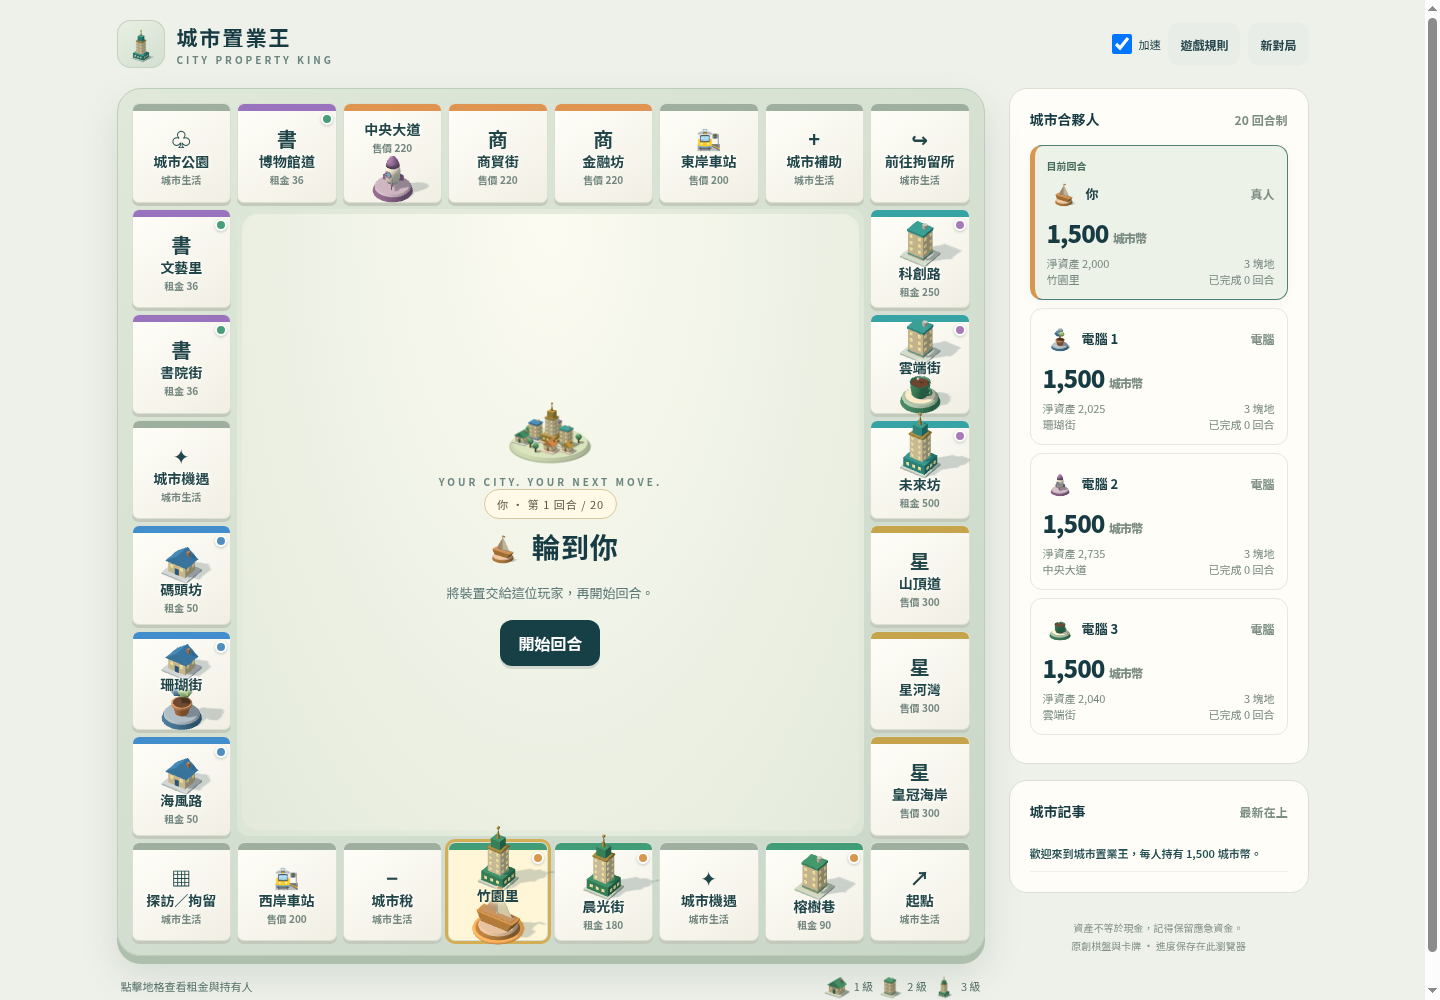
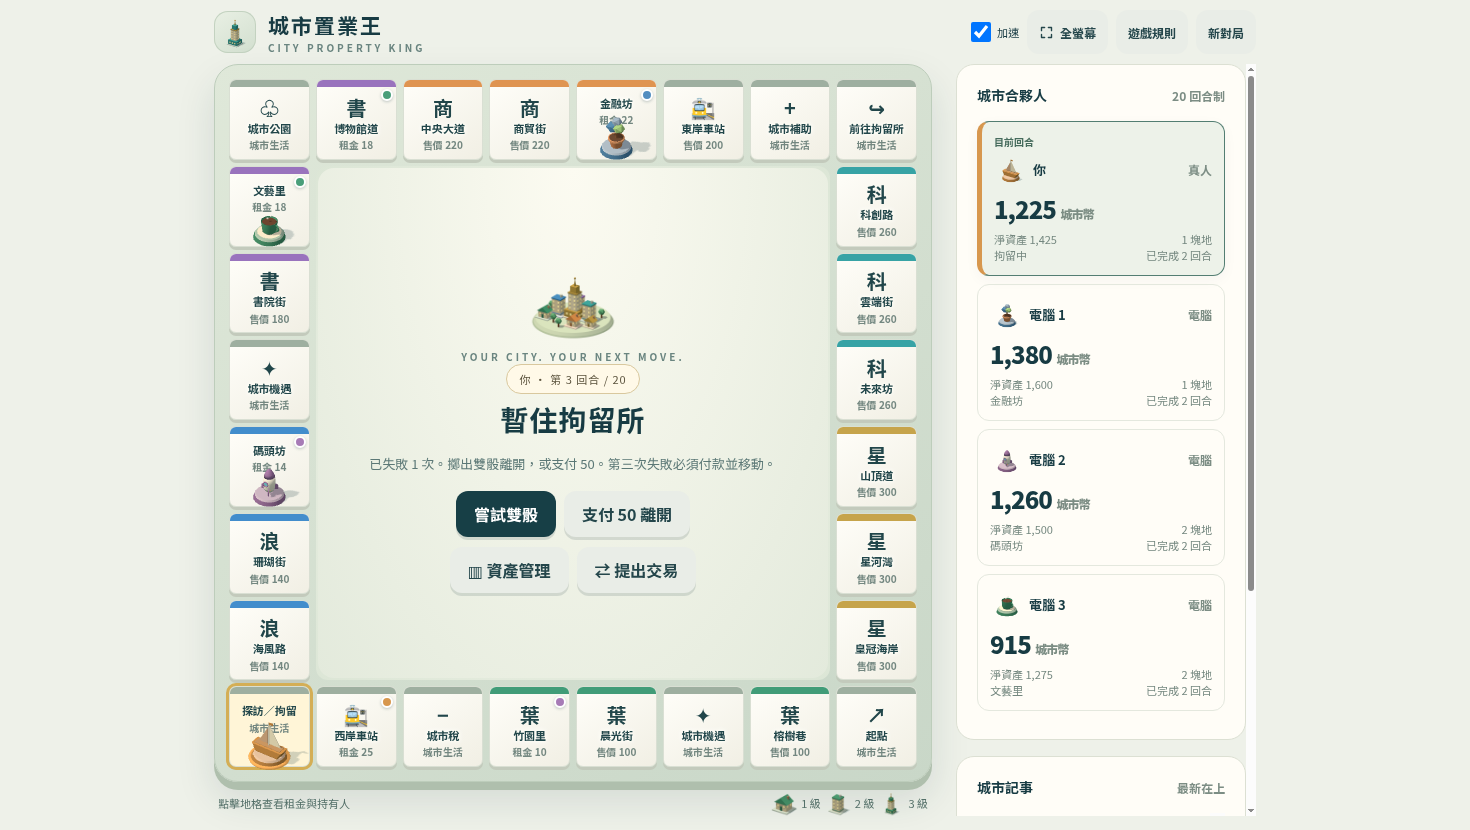
Fit board to screen height on laptop and iPad, add fullscreen button

diff --git a/app.js b/app.js
@@ -21,7 +21,14 @@ function pieceArt(id,color=colors[id],slot=false){if(three)return slot?'':`<span
  '<ellipse cx="31" cy="49" rx="22" ry="6" fill="#d8e1db"/><path d="M43 23h5c14 0 12 18-2 18h-4" fill="none" stroke="currentColor" stroke-width="5"/><path d="M15 22h31l-3 23q-12 9-25 0z" fill="currentColor"/><ellipse cx="30" cy="22" rx="15" ry="5" fill="#fff4dc"/><ellipse cx="30" cy="23" rx="11" ry="3" fill="#795b47"/><path d="M23 7q-5 5 0 10m10-12q-5 5 0 10" fill="none" stroke="#d6dacf" stroke-width="3" stroke-linecap="round"/>'
  ];return `<span class="piece-art" data-piece="${id}" style="--piece:${color}" aria-hidden="true"><svg viewBox="0 0 64 64"><ellipse cx="32" cy="58" rx="26" ry="5" fill="#123747" opacity=".15"/><ellipse cx="32" cy="54" rx="25" ry="6" fill="currentColor"/><ellipse cx="32" cy="52" rx="25" ry="6" fill="#fff" opacity=".4"/>${shapes[id%4]}</svg></span>`}
 function buildingArt(level,color='#499e7a',slot=false){if(three)return slot?`<span class="building-art level-${level}" data-level="${level}" data-color="${color}" aria-hidden="true"></span>`:`<span class="building-art is-3d" aria-hidden="true"><img src="${three.thumbs.building(level,color)}" alt=""></span>`;return `<span class="building-art level-${level}" aria-hidden="true"><svg viewBox="0 0 64 64"><ellipse cx="32" cy="56" rx="27" ry="5" fill="#183c45" opacity=".15"/>${level===1?'<path d="M13 31l20 7v18l-20-7z" fill="#f2e5c6"/><path d="M33 38l18-10v19L33 56z" fill="#b9b99b"/><path d="M7 32l19-20 13 5-6 25z" fill="currentColor"/><path d="M26 12l27 15-20 15 6-25z" fill="currentColor"/><path d="M33 42l20-15-14-10z" fill="#173e47" opacity=".25"/><path d="M20 39l7 2v13l-7-2z" fill="#57767a"/>':`<path d="M15 ${level===2?19:12}l21 7v34l-21-7z" fill="#e9e6ce"/><path d="M36 ${level===2?26:19}l15-9v34L36 60z" fill="currentColor"/><path d="M15 ${level===2?19:12}l15-9 21 7-15 9z" fill="currentColor"/><path d="M36 ${level===2?26:19}l15-9v34L36 60z" fill="#173e47" opacity=".2"/>${[0,1,2].map(i=>`<path d="M20 ${27+i*8}l10 3v4l-10-3z" fill="#6a9298"/><path d="M40 ${29+i*8}l6-4v4l-6 4z" fill="#fff3ba"/>`).join('')}${level===3?'<path d="M24 10l9 3V4l-9-2z" fill="#e2bb68"/><path d="M33 13l6-4V0l-6 4z" fill="#9b7f49"/>':''}`}</svg></span>`}
-function header(){return `<header><div class="brand">${brandIcon()}<div><h1>城市置業王</h1><div class="eyebrow">City Property King</div></div></div><nav class="tools" aria-label="遊戲選項">${s?`<label class="speed"><input id="fast" type="checkbox" ${fast?'checked':''}> 加速</label>`:''}${btn('遊戲規則','rules','secondary')}${s?btn('新對局','new','secondary'):''}</nav></header>`}
+const fsEl=()=>document.fullscreenElement||document.webkitFullscreenElement;
+const fsOK=!!(document.fullscreenEnabled||document.webkitFullscreenEnabled);
+const fsLabel=()=>`<svg viewBox="0 0 24 24" aria-hidden="true" fill="none" stroke="currentColor" stroke-width="2.2" stroke-linecap="round" stroke-linejoin="round">${fsEl()?'<path d="M9 4v5H4M15 4v5h5M9 20v-5H4M15 20v-5h5"/>':'<path d="M4 9V4h5M20 9V4h-5M4 15v5h5M20 15v5h-5"/>'}</svg><span class="fs-text">${fsEl()?'離開全螢幕':'全螢幕'}</span>`;
+function toggleFullscreen(){if(fsEl()){(document.exitFullscreen||document.webkitExitFullscreen).call(document)?.catch?.(()=>{});return}const r=document.documentElement;(r.requestFullscreen||r.webkitRequestFullscreen).call(r)?.catch?.(()=>{})}
+function syncFullscreen(){document.querySelectorAll('[data-action="fullscreen"]').forEach(b=>{b.innerHTML=fsLabel();b.setAttribute('aria-pressed',String(!!fsEl()));b.title=fsEl()?'離開全螢幕（F 或 Esc）':'全螢幕顯示（F）'})}
+for(const ev of ['fullscreenchange','webkitfullscreenchange'])document.addEventListener(ev,syncFullscreen);
+document.addEventListener('keydown',e=>{if(!fsOK||e.repeat||e.ctrlKey||e.metaKey||e.altKey||(e.key!=='f'&&e.key!=='F'))return;if(e.target.closest?.('input,select,textarea,dialog'))return;e.preventDefault();toggleFullscreen()});
+function header(){return `<header><div class="brand">${brandIcon()}<div><h1>城市置業王</h1><div class="eyebrow">City Property King</div></div></div><nav class="tools" aria-label="遊戲選項">${s?`<label class="speed"><input id="fast" type="checkbox" ${fast?'checked':''}> 加速</label>`:''}${fsOK?`<button class="secondary fs-btn" data-action="fullscreen" aria-pressed="${!!fsEl()}" title="${fsEl()?'離開全螢幕（F 或 Esc）':'全螢幕顯示（F）'}">${fsLabel()}</button>`:''}${btn('遊戲規則','rules','secondary')}${s?btn('新對局','new','secondary'):''}</nav></header>`}
 function setup(){view='setup';app.innerHTML=header()+`<main class="setup"><section class="hero"><span class="pill">原創城市・你的置業故事</span>${cityArt()}<div class="eyebrow">Build a city. Make your move.</div><h2>一擲骰子，<br>一座你的城市。</h2><p>從一條小巷開始，打造你的置業版圖。<br>買地、收租、談判，把每一次機會變成資產。</p><p class="helptext">2–4 人・真人與電腦混合・同機輪流遊玩<br>自動儲存在此瀏覽器，無需登入。</p></section><form class="setup-card" id="setup"><h2>開展你的城市旅程</h2><label for="count">玩家人數</label><select id="count"><option value="2">2 位玩家</option><option value="3">3 位玩家</option><option value="4">4 位玩家</option></select><div id="setupPlayers"></div><label for="mode">遊戲模式</label><select id="mode"><option value="quick">快速模式 · 每人 20 回合</option><option value="classic">經典模式 · 最後一人勝出</option></select><p class="helptext">起始現金 1,500 · 經過起點 +200<br>快速模式以淨資產排名；遊戲時長視操作與對局而定。</p><button class="start" type="submit">開始新對局 →</button>${saved?btn('繼續上次對局','continue','secondary'):''}${loadError?`<p class="notice">${esc(loadError)}</p>`:''}</form></main>`;setupPlayers(2);document.querySelector('#count').onchange=e=>setupPlayers(+e.target.value);document.querySelector('#setup').onsubmit=e=>{e.preventDefault();if(saved&&saved.phase!=='over'&&!confirm('開始新對局將取代尚未完成的存檔，確定開始？'))return;const ps=[...document.querySelectorAll('.setup-player')].map((el,id)=>({name:el.querySelector('input').value.trim()||`玩家 ${id+1}`,ai:el.querySelector('select').value==='ai',piece:id}));if(ps.every(p=>p.ai)){alert('請保留至少一名真人玩家。');return}s=createGame(ps,document.querySelector('#mode').value);save();render()}}
 function setupPlayers(n){document.querySelector('#setupPlayers').innerHTML=Array.from({length:n},(_,i)=>`<div class="setup-player"><span aria-label="棋子 ${i+1}">${pieceArt(i)}</span><input maxlength="20" aria-label="玩家 ${i+1} 姓名" value="${i===0?'你':`電腦 ${i}`}" required><select aria-label="玩家 ${i+1} 類型"><option value="human">真人</option><option value="ai" ${i?'selected':''}>電腦</option></select></div>`).join('')}
 function save(){try{localStorage.setItem(key,JSON.stringify(s));saved=s;storageOK=true}catch{storageOK=false}}
@@ -52,7 +59,7 @@ function tileDetail(i){const t=board[i],a=s.assets[i],g=groups[t.group];open(`<h
 function tradeSummary(t){return `${esc(player(s).name)}付出 ${money(t.giveCash)} ＋ ${t.give.map(i=>board[i].name).join('、')||'無土地'}<br>${esc(s.players[t.other].name)}付出 ${money(t.takeCash)} ＋ ${t.take.map(i=>board[i].name).join('、')||'無土地'}<br>交易後現金：${esc(player(s).name)} ${money(player(s).cash-t.giveCash+t.takeCash)} ／ ${esc(s.players[t.other].name)} ${money(s.players[t.other].cash-t.takeCash+t.giveCash)}${groups.map(g=>{const owners=g.tiles.map(i=>t.give.includes(i)?t.other:t.take.includes(i)?s.current:s.assets[i].owner);return owners.every(i=>i===s.current)?`<br>你將持有完整${g.name}`:owners.every(i=>i===t.other)?`<br>對方將持有完整${g.name}`:''}).join('')}`}
 function tradeForm(){const qs=s.players.filter(p=>p.id!==s.current&&!p.bankrupt);if(!qs.length)return;open(`<h2>提出交易</h2><form id="tradeForm"><label for="other">交易對象</label><select id="other">${qs.map(p=>`<option value="${p.id}">${esc(p.name)}</option>`).join('')}</select><div id="tradeSides"></div><p id="tradePreview" class="helptext"></p><button type="submit">送出提案</button></form>`);const sides=()=>{const other=+document.querySelector('#other').value;document.querySelector('#tradeSides').innerHTML=`<div class="trade-columns">${[s.current,other].map((id,k)=>`<section><h3>${esc(s.players[id].name)}付出</h3><label>現金<input type="number" name="${k?'takeCash':'giveCash'}" min="0" max="${s.players[id].cash}" value="0" step="1"></label>${owned(s,id).filter(t=>tradable(s,id,t.id)).map(t=>`<label><input type="checkbox" name="${k?'take':'give'}" value="${t.id}"> ${t.name} (${t.price})</label>`).join('')||'<p class="helptext">沒有可交易的土地</p>'}</section>`).join('')}</div>`;preview()};const data=()=>{const f=new FormData(document.querySelector('#tradeForm'));return {other:+document.querySelector('#other').value,giveCash:+f.get('giveCash'),takeCash:+f.get('takeCash'),give:f.getAll('give').map(Number),take:f.getAll('take').map(Number)}};const preview=()=>document.querySelector('#tradePreview').innerHTML=tradeSummary(data());sides();document.querySelector('#other').onchange=sides;document.querySelector('#tradeForm').oninput=preview;document.querySelector('#tradeForm').onsubmit=e=>{e.preventDefault();const tr=data();modal.close();act({type:'trade',trade:tr})}}
 function rules(){open(`<h2>城市置業王・遊戲規則</h2><div class="rules"><p>2–4 位玩家，真人與電腦可混合。同一部裝置輪流遊玩。每人由起點出發，持有 1,500 城市幣。</p><h3>擲骰與落格</h3><p>兩顆骰子決定步數。經過或停在起點領 200。無主土地可購買，放棄便由全體未破產玩家拍賣；每次至少加 10，退出後不可重返。停在他人未抵押土地自動付租。城市稅付 100、補助領 100，公園沒有金錢效果。</p><h3>地段與建造</h3><p>同色三塊集齊、全組未抵押時，基本租金加倍，並可升級至三級。建築租金不再加倍。建造與出售必須維持同組最高與最低級別相差不超過 1。建築出售回收成本 50%。資產操作在自己回合擲骰前或結算後進行。</p><h3>抵押與交易</h3><p>抵押取得原價 50%，抵押後不收租；贖回須付抵押金額 110%，向上取整。同組全部沒有建築才能抵押。只可交易未抵押資產；一般土地所在組別不能有建築。交易須對方接受才一次完成。</p><h3>雙骰與拘留</h3><p>雙骰可再擲，同回合連續第三次雙骰直接入拘留所。普通停在拘留格只是探訪。被拘留後可付 50 離開並正常擲骰，或試雙骰。成功依點數離開但沒有額外擲骰；第三次失敗須付 50 後依該次點數移動。</p><h3>機遇卡</h3><p>12 張卡依洗勻次序抽取，抽完再洗。卡牌移動結算目的格；前進經過起點可領獎金，後退及被送入拘留所不領。</p><h3>欠款與破產</h3><p>付不起時只能售建築及抵押籌款，籌足後一次付款。所有合法變賣方式仍不足才可破產。欠玩家時，剩餘現金、建築半價收入及土地交給債權人，保留抵押狀態；欠銀行時土地恢復無主未抵押，建築移除。只剩一名玩家立即完局。</p><h3>快速模式</h3><p>每人完成 20 回合後停止行動，仍可收租及拍賣；所有待結算完成後排名。拘留失敗也計一回合，雙骰額外擲骰不另計。淨資產＝現金＋未抵押土地原價＋抵押土地原價 50%＋建築成本 50%。同分先比現金，再比完整地段數，仍同分並列。破產者排最後。</p><h3>電腦與存檔</h3><p>電腦原則保留 200 現金，完成地段可保留 100；拍賣一般上限原價 110%，完成地段 130%。不讀取未公開骰子或卡牌。重要操作自動儲存於此瀏覽器；清除網站資料會刪除進度。加速選項可略過等待。</p></div>`)}
-app.addEventListener('click',e=>{const tile=e.target.closest('[data-tile]');if(tile){tileDetail(+tile.dataset.tile);return}const b=e.target.closest('[data-action]');if(!b||b.disabled||busy)return;const a=b.dataset.action;if(a==='rules'){rules();return}if(a==='continue'){s=structuredClone(saved);render();return}if(a==='new'){if(s?.phase!=='over'&&!confirm('離開目前對局？進度仍會保存，開始新局才會覆蓋。'))return;clearTimeout(timer);s=null;setup();return}if(a==='assets'){assetPanel();return}if(a==='trade-form'){tradeForm();return}if(currentActor().ai)return;if(a==='bid'){act({type:'bid',amount:+document.querySelector('#bid').value});return}if(a==='bankrupt'&&!confirm('確認破產並移交資產？'))return;act({type:a})});
+app.addEventListener('click',e=>{if(e.target.closest('[data-action="fullscreen"]')){toggleFullscreen();return}const tile=e.target.closest('[data-tile]');if(tile){tileDetail(+tile.dataset.tile);return}const b=e.target.closest('[data-action]');if(!b||b.disabled||busy)return;const a=b.dataset.action;if(a==='rules'){rules();return}if(a==='continue'){s=structuredClone(saved);render();return}if(a==='new'){if(s?.phase!=='over'&&!confirm('離開目前對局？進度仍會保存，開始新局才會覆蓋。'))return;clearTimeout(timer);s=null;setup();return}if(a==='assets'){assetPanel();return}if(a==='trade-form'){tradeForm();return}if(currentActor().ai)return;if(a==='bid'){act({type:'bid',amount:+document.querySelector('#bid').value});return}if(a==='bankrupt'&&!confirm('確認破產並移交資產？'))return;act({type:a})});
 body.addEventListener('click',e=>{const b=e.target.closest('[data-asset]');if(!b||b.disabled)return;const a={type:b.dataset.asset,tile:+b.dataset.id},t=board[a.tile],g=groups[t.group];const price=a.type==='build'?g.build:a.type==='sell'?g.build*.5:a.type==='mortgage'?t.price*.5:Math.ceil(t.price*.55);const delta=['sell','mortgage'].includes(a.type)?price:-price;if(!confirm(`${t.name}：${b.textContent}\n完成後現金 ${money(player(s).cash+delta)}${a.type==='build'||a.type==='sell'?`\n新級別 ${s.assets[t.id].level+(a.type==='build'?1:-1)}`:''}\n確認操作？`))return;act(a);assetPanel()});
 function upgradeArt(){document.querySelectorAll('.piece-art[data-piece]:not(.is-3d)').forEach(el=>{if(!el.closest('.board'))el.outerHTML=pieceArt(+el.dataset.piece)});document.querySelectorAll('.city-art:not(.is-3d)').forEach(el=>el.outerHTML=cityArt());document.querySelector('.brand-icon:not(.is-3d)')?.replaceWith(Object.assign(document.createElement('div'),{innerHTML:brandIcon()}).firstElementChild)}
 setup();

diff --git a/style.css b/style.css
@@ -48,3 +48,44 @@
 .has-3d .tile.current .name{text-shadow:0 0 2px #fff5d7,0 0 4px #fff5d7,0 0 6px #fff5d7}
 .has-3d .tile.built.occupied .price{visibility:hidden}
 @media(max-width:1050px){.center .city-art.is-3d{display:none}}
+
+/* Fullscreen button and board fitted to screen height (MacBook / iPad) */
+.fs-btn{display:inline-flex;align-items:center;gap:6px}
+.fs-btn svg{width:15px;height:15px;flex-shrink:0}
+@media(min-width:761px){
+body:has(main.layout){--hdr:64px;--legend:34px;--side:300px;--board:calc(100vh - var(--hdr) - var(--legend) - 14px)}
+@supports(height:100dvh){body:has(main.layout){--board:calc(100dvh - var(--hdr) - var(--legend) - 14px)}}
+body:has(main.layout) header{height:var(--hdr);padding-top:8px;padding-bottom:8px;max-width:calc(max(460px,var(--board)) + var(--side) + 72px)}
+body:has(main.layout) .brand-icon{width:42px;height:42px}
+body:has(main.layout) .brand-icon.is-3d img{width:36px;height:36px}
+.layout{max-width:none;grid-template-columns:minmax(0,max(460px,var(--board))) var(--side);justify-content:center;padding-bottom:12px}
+.board-legend{height:var(--legend);padding:8px 4px 0}
+.sidebar{position:sticky;top:8px;align-self:start;max-height:calc(100vh - var(--hdr) - 14px);max-height:calc(100dvh - var(--hdr) - 14px);overflow-y:auto;overscroll-behavior:contain;scrollbar-width:thin}
+.board{container-type:inline-size}
+.tile .name{font-size:clamp(8px,1.6cqi,14px)}
+}
+@media(min-width:761px) and (max-width:1050px){body:has(main.layout){--side:250px}}
+@media(min-width:761px) and (max-width:1100px) and (orientation:portrait){
+body:has(main.layout){--side:0px}
+body:has(main.layout) header{max-width:none}
+.layout{display:flex;flex-direction:column;align-items:center;gap:14px}
+.layout>div:first-child{width:min(100%,var(--board))}
+.sidebar{position:static;max-height:none;overflow:visible;width:min(100%,var(--board))}
+.sidebar .players-grid{display:grid;gap:10px}
+.tile .tokens .token{width:28px;height:31px}
+.tile .building-art{width:36px;height:36px}
+.tile .tile-icon:has(.building-art){height:32px}
+.board-legend{font-size:11px}
+.board-legend .building-art{width:22px;height:22px}
+.sidebar .players-grid{grid-template-columns:repeat(auto-fit,minmax(170px,1fr))}
+.turn-panel .center{padding:18px}
+.center .city-art,.center .city-art.is-3d{display:flex}
+.center p{font-size:14px}
+.center h2{font-size:28px}
+.center .pill{font-size:11px}
+.action-buttons{margin-top:12px;gap:8px}
+.action-buttons button{font-size:15px;padding:11px 18px;min-height:48px}
+.die.is-3d{width:56px;height:56px}
+}
+@media(max-width:760px){.fs-btn{padding:7px 10px}.fs-btn .fs-text{position:absolute;width:1px;height:1px;overflow:hidden;clip:rect(0 0 0 0);white-space:nowrap}}
+.setup-player{grid-template-columns:35px minmax(0,1fr) minmax(80px,95px)}

diff --git a/index.html b/index.html
@@ -1,2 +1,2 @@
 <!doctype html>
-<html lang="zh-Hant"><head><meta charset="utf-8"><meta name="viewport" content="width=device-width,initial-scale=1"><meta name="theme-color" content="#153d46"><meta name="description" content="城市置業王：原創繁體中文買地、收租與交易棋盤遊戲。支援電腦對手、同機輪流遊玩及自動存檔。"><title>城市置業王｜City Property King</title><link rel="stylesheet" href="style.css?v=4"></head><body><div id="app"></div><dialog id="detail"><div id="detailBody"></div><form method="dialog"><button class="secondary">關閉</button></form></dialog><script type="module" src="app.js?v=4"></script></body></html>
+<html lang="zh-Hant"><head><meta charset="utf-8"><meta name="viewport" content="width=device-width,initial-scale=1"><meta name="theme-color" content="#153d46"><meta name="description" content="城市置業王：原創繁體中文買地、收租與交易棋盤遊戲。支援電腦對手、同機輪流遊玩及自動存檔。"><title>城市置業王｜City Property King</title><link rel="stylesheet" href="style.css?v=5"></head><body><div id="app"></div><dialog id="detail"><div id="detailBody"></div><form method="dialog"><button class="secondary">關閉</button></form></dialog><script type="module" src="app.js?v=5"></script></body></html>

diff --git a/README.md b/README.md
@@ -22,7 +22,7 @@
 
 ## 使用與儲存
 
-直接開啟 GitHub Pages 網址。手機點格子看詳情；桌面主要操作在棋盤中央；手機操作區在棋盤下方，頂部保留目前玩家與現金。資產管理和交易按鈕在自己回合出現。棋盤上的棋子與建築以 WebGL 即時繪製 3D 模型（小船、樹苗、火箭、咖啡杯；小屋、樓宇、地標），有光影、逐格跳動及建築升級彈出效果；玩家卡、圖例、骰子及城市插圖使用同一批模型產生的 3D 縮圖。瀏覽器不支援 WebGL 時自動改用原有向量插畫。玩家卡與持有人標記以相同顏色對應。擲骰結果確定後先存檔，再呈現動畫；重新整理後按「繼續上次對局」。支援鍵盤 Tab、Enter、Escape，無拖曳操作。勾選「加速」可略過等待，系統減少動態效果設定亦適用。
+直接開啟 GitHub Pages 網址。手機點格子看詳情；桌面主要操作在棋盤中央；手機操作區在棋盤下方，頂部保留目前玩家與現金。資產管理和交易按鈕在自己回合出現。棋盤上的棋子與建築以 WebGL 即時繪製 3D 模型（小船、樹苗、火箭、咖啡杯；小屋、樓宇、地標），有光影、逐格跳動及建築升級彈出效果；玩家卡、圖例、骰子及城市插圖使用同一批模型產生的 3D 縮圖。瀏覽器不支援 WebGL 時自動改用原有向量插畫。玩家卡與持有人標記以相同顏色對應。擲骰結果確定後先存檔，再呈現動畫；重新整理後按「繼續上次對局」。支援鍵盤 Tab、Enter、Escape，無拖曳操作。頂部「全螢幕」按鈕（或按 F）可切換全螢幕，Esc 離開；手提電腦及平板的棋盤按螢幕高度縮放，毋須捲動即可看到整個棋盤，iPad 直向時玩家資料移至棋盤下方。瀏覽器不支援全螢幕時（例如 iPhone）不顯示按鈕。勾選「加速」可略過等待，系統減少動態效果設定亦適用。
 
 進度存在目前瀏覽器的 localStorage，只保留一局。不同裝置不會同步；清除網站資料會刪除進度。無法儲存時畫面會提示。不要用 file:// 開啟 ES module，需透過靜態 HTTP 伺服器。
 

diff --git a/docs/TEST-RESULTS.md b/docs/TEST-RESULTS.md
@@ -50,3 +50,13 @@
 - 正式 UI 自動操作完成一場 3 人加速快速模式（真人＋2 電腦），20 回合結算正常，期間沒有錯誤；另以非加速模式檢查擲骰、骰子翻動、逐格跳動及落格購買提示。
 - `npm test`：21 項通過，規則引擎、資料及存檔格式未更改。
 - 限制：驗證使用無 GPU 的 Chromium 軟件繪製；未在真實 iPhone、iPad、Safari 或低階 Android 測試 3D 效能。系統減少動態效果時跳過跳動與彈出動畫。
+
+## 全螢幕及 MacBook／iPad 版面驗證（2026-10-30）
+
+- 問題：桌面棋盤按寬度計算為正方形，MacBook Air Chrome（約 1470×830）棋盤高 838px、頂部 103px，底行被切；iPad 橫向 1180×820 同樣被切；iPad 直向 820×1180 棋盤只有 494px，下半畫面空置。
+- 修正：761px 以上棋盤邊長改按可用高度計算（`--board`，使用 `100dvh`，不支援時用 `100vh`），回合頁頂部列壓縮至 64px，側欄固定並在內部捲動；格名字級改按棋盤寬度（`cqi`）縮放。iPad 直向（761–1100px 直向）改為棋盤在上、玩家卡四欄在下，並放大中央文字與按鈕。
+- 新增「全螢幕」按鈕（頂部工具列，含圖示），亦可按 F 切換、Esc 離開；支援標準及 webkit 前綴 Fullscreen API。瀏覽器不支援時（例如 iPhone Safari）不顯示按鈕。手機寬度只顯示圖示。
+- Chromium 實測 4 人對局：1470×830、1280×720、1470×956（全螢幕）、1180×820 棋盤及圖例完整顯示且頁面不需捲動；820×1180、1024×1366 棋盤完整，玩家卡在下方；390×844 手機版維持原排版。全部無橫向溢出（另修正手機開局頁玩家類型選單溢出約 10px）。
+- 全螢幕按鈕、F 鍵及 Esc 實測可進出全螢幕，按鈕文字及 `aria-pressed` 同步。
+- `npm test`：21 項通過；規則及存檔格式未更改。
+- 限制：未在真實 MacBook、iPad Safari 測試；iPadOS 16.4 前的 Safari 依賴 webkit 前綴。

diff --git a/AGENTS.md b/AGENTS.md
@@ -7,3 +7,5 @@
 規則運算集中 engine.js，資料在 data.js，UI 在 app.js；所有遊戲資金及所有權改動透過 dispatch。動畫只呈現已存檔結果。改規則後跑 npm test，介面變更補瀏覽器驗證。經典模式無時間上限，不宣稱必定在固定回合完局或已通過真實 Safari／iPad 測試。
 
 棋盤 3D 模型由 board3d.js 以透明 WebGL 畫布疊在棋盤上：app.js 仍輸出 `.token[data-player]`、`.building-art[data-level]` 空槽，board3d.js 依其位置用正交鏡頭投影到地面；改棋盤排版後要檢查模型對位。pieceArt／buildingArt 在 3D 可用時輸出縮圖，否則保留 SVG 後備，不可移除。vendor/three.min.js 由 tools/three-entry.js 打包。棋子顏色與玩家卡及持有人標記對應；桌面回合操作覆於棋盤中央，760px 以下移至棋盤下方。保留動畫重繪 turn-panel 的流程及減少動態效果支援。
+
+761px 以上棋盤邊長由 style.css 末段 `--board`（100dvh 減頂部列與圖例）決定，令整個棋盤留在一屏內；761–1100px 直向為上下排列。改頂部列或圖例高度須同步 `--hdr`／`--legend`。全螢幕按鈕在 header()，click 處理放在 busy 檢查之前，F 鍵切換。
